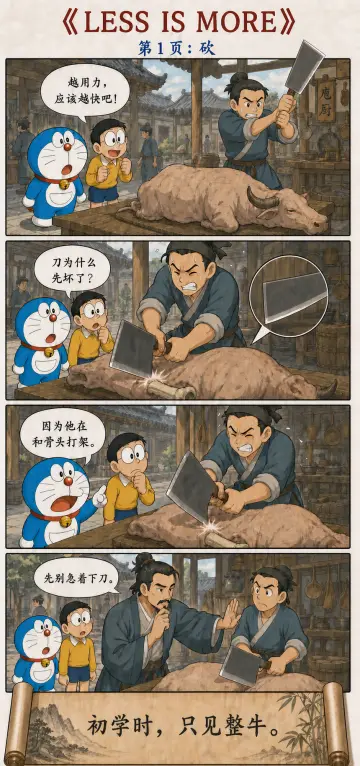
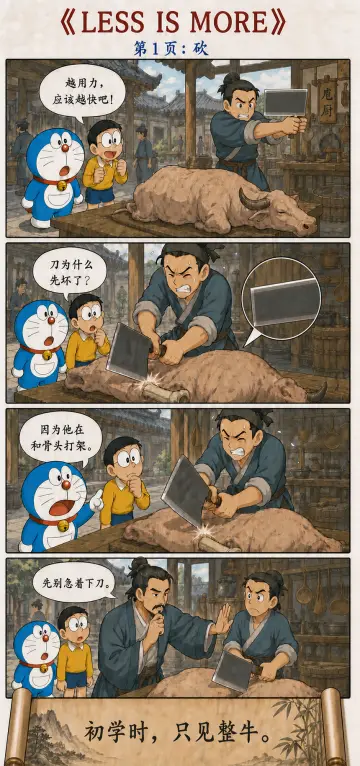
Fix Chapter 48 cleaver orientation

diff --git a/projects/doraemon-laozhuang/chapter-48.html b/projects/doraemon-laozhuang/chapter-48.html
@@ -56,7 +56,7 @@
         <span class="section-kicker">三页图解</span>
         <h2>砍、看、顺：高手怎样减少多余动作</h2>
         <div class="comic-series">
-          <figure><img src="chapter-48-1-v2.png?v=20260828-4" width="860" height="1828" loading="eager" alt="哆啦A梦和大雄观看初学者用蛮力解牛，厨刀举在身体外侧且刀刃朝外，随后因撞击骨头而损坏"><figcaption>第一图 · 砍：看不见结构，只能用力对抗。<span class="translation" lang="en">Panel One · Hack: unable to see the structure, the beginner can only fight it with force.</span></figcaption></figure>
+          <figure><img src="chapter-48-1-v2.png?v=20260828-5" width="860" height="1829" loading="eager" alt="哆啦A梦和大雄观看初学者用蛮力解牛，第一格厨刀刀柄在右、刀身向左且上沿为刀刃"><figcaption>第一图 · 砍：看不见结构，只能用力对抗。<span class="translation" lang="en">Panel One · Hack: unable to see the structure, the beginner can only fight it with force.</span></figcaption></figure>
           <figure><img src="chapter-48-2.png" width="853" height="1844" loading="lazy" alt="庖丁向哆啦A梦和大雄展示牛的骨节、关节与空隙，说明高手看见的是结构"><figcaption>第二图 · 看：不是少学了，而是终于看懂了。<span class="translation" lang="en">Panel Two · See: the master has not learned less; he has finally learned to see.</span></figcaption></figure>
           <figure><img src="chapter-48-3.png" width="853" height="1844" loading="lazy" alt="庖丁顺着骨节空隙下刀，遇到复杂处先停下观察，十九年的刀仍然锋利"><figcaption>第三图 · 顺：少一点强求，多一点顺势。<span class="translation" lang="en">Panel Three · Follow: less forcing, more alignment with the way things already are.</span></figcaption></figure>
         </div>

diff --git a/projects/doraemon-laozhuang/index.html b/projects/doraemon-laozhuang/index.html
@@ -216,7 +216,7 @@
 
         <article class="chapter-tile">
           <a class="chapter-cover" href="chapter-48.html" aria-label="阅读《道德经》第四十八章：为学日益，为道日损">
-            <img src="chapter-48-1-v2-thumb.webp?v=20260828-4" width="360" height="766" alt="第四十八章漫画预览：从庖丁解牛理解为学日益与为道日损" loading="lazy" decoding="async">
+            <img src="chapter-48-1-v2-thumb.webp?v=20260828-5" width="360" height="766" alt="第四十八章漫画预览：从庖丁解牛理解为学日益与为道日损" loading="lazy" decoding="async">
             <span class="chapter-cover-count">▧ 三页</span>
           </a>
           <div class="chapter-tile-body">
